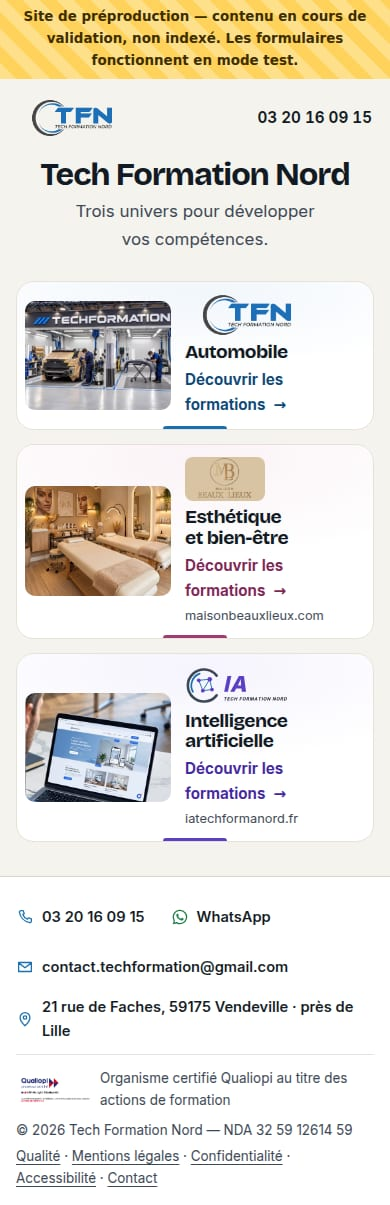
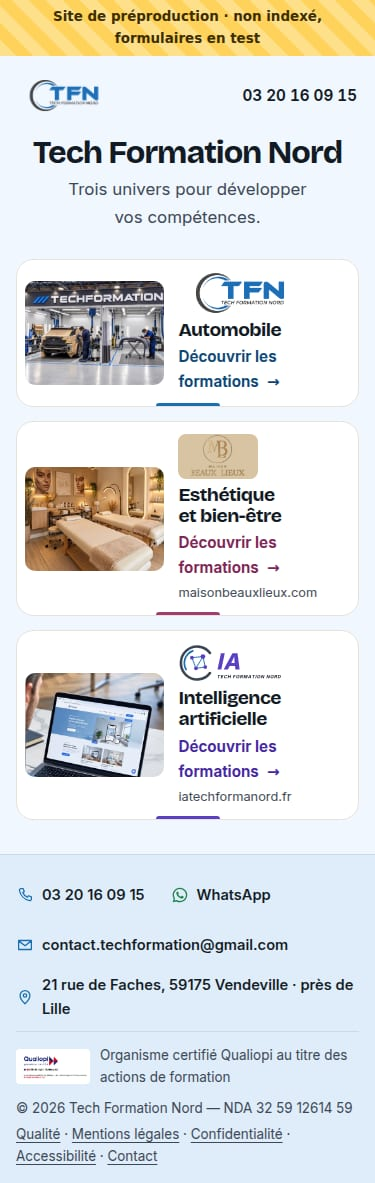
Documentation : recette mobile et fonds du portail, captures

diff --git a/docs/procedure-retour-arriere.md b/docs/procedure-retour-arriere.md
@@ -39,7 +39,7 @@ dig +short A techformanord.fr
 
 ## E. Préproduction tfn.iatechformanord.fr
 
-Chaque version déployée en préproduction est étiquetée `tfn-site:preprod-<commit>` : `preprod-859c2cc` (avant la montée en gamme), `preprod-a8ec674` (montée en gamme, avant le portail à trois univers), `preprod-31541ab` (portail à trois univers, illustrations animées), `preprod-c2c4eaf` (portail avec les photos des trois univers et WhatsApp +33 6 86 15 89 33). Pour revenir au portail illustré, remplacer `859c2cc` par `31541ab` ci-dessous. Pour revenir à l'accueil précédent, remplacer `859c2cc` par `a8ec674` ci-dessous.
+Chaque version déployée en préproduction est étiquetée `tfn-site:preprod-<commit>` : `preprod-859c2cc` (avant la montée en gamme), `preprod-a8ec674` (montée en gamme, avant le portail à trois univers), `preprod-31541ab` (portail à trois univers, illustrations animées), `preprod-c2c4eaf` (portail avec les photos des trois univers et WhatsApp +33 6 86 15 89 33), `preprod-a608309` (numéros insécables sur mobile, fonds bleus du portail). Pour revenir au portail illustré, remplacer `859c2cc` par `31541ab` ci-dessous. Pour revenir à l'accueil précédent, remplacer `859c2cc` par `a8ec674` ci-dessous.
 ```bash
 cd /opt/newtfn
 docker tag tfn-site:preprod-859c2cc tfn-site:preprod

diff --git a/docs/rapport-recette.md b/docs/rapport-recette.md
@@ -139,3 +139,10 @@ Vérifié sur https://tfn.iatechformanord.fr/ (`version.txt` = `c2c4eaf`) :
 - Lighthouse mobile `/` : performance 99, accessibilité 100, LCP 1,8 s, CLS 0, TBT 0 ms (SEO 69 attendu : noindex de préproduction).
 - Protections : X-Robots-Tag et meta noindex, sitemap 404, `/api/test-inbox` 404, hôte sslip 401.
 - Captures : `docs/captures/portail-ordinateur.jpg`, `docs/captures/portail-mobile.jpg`.
+
+## Mobile et fonds du portail (version `a608309`, 25/10/2026)
+
+- Numéros de téléphone et WhatsApp jamais coupés : 12 pages × 5 largeurs (320 à 414 px) × texte à 100 % et 130 % = 120/120 sans numéro coupé ni débordement (distant).
+- Portail : fond `#F0F7FF`, partie basse `#DFECF9` pleine largeur, filet `#C7DBEE`, cartes blanches en aplat.
+- Interactions 46/46 ; recette 4 largeurs × 24 pages : 0 débordement, 0 violation axe (hors 404 volontaire).
+- Captures mises à jour : `docs/captures/portail-ordinateur.jpg`, `docs/captures/portail-mobile.jpg`.
